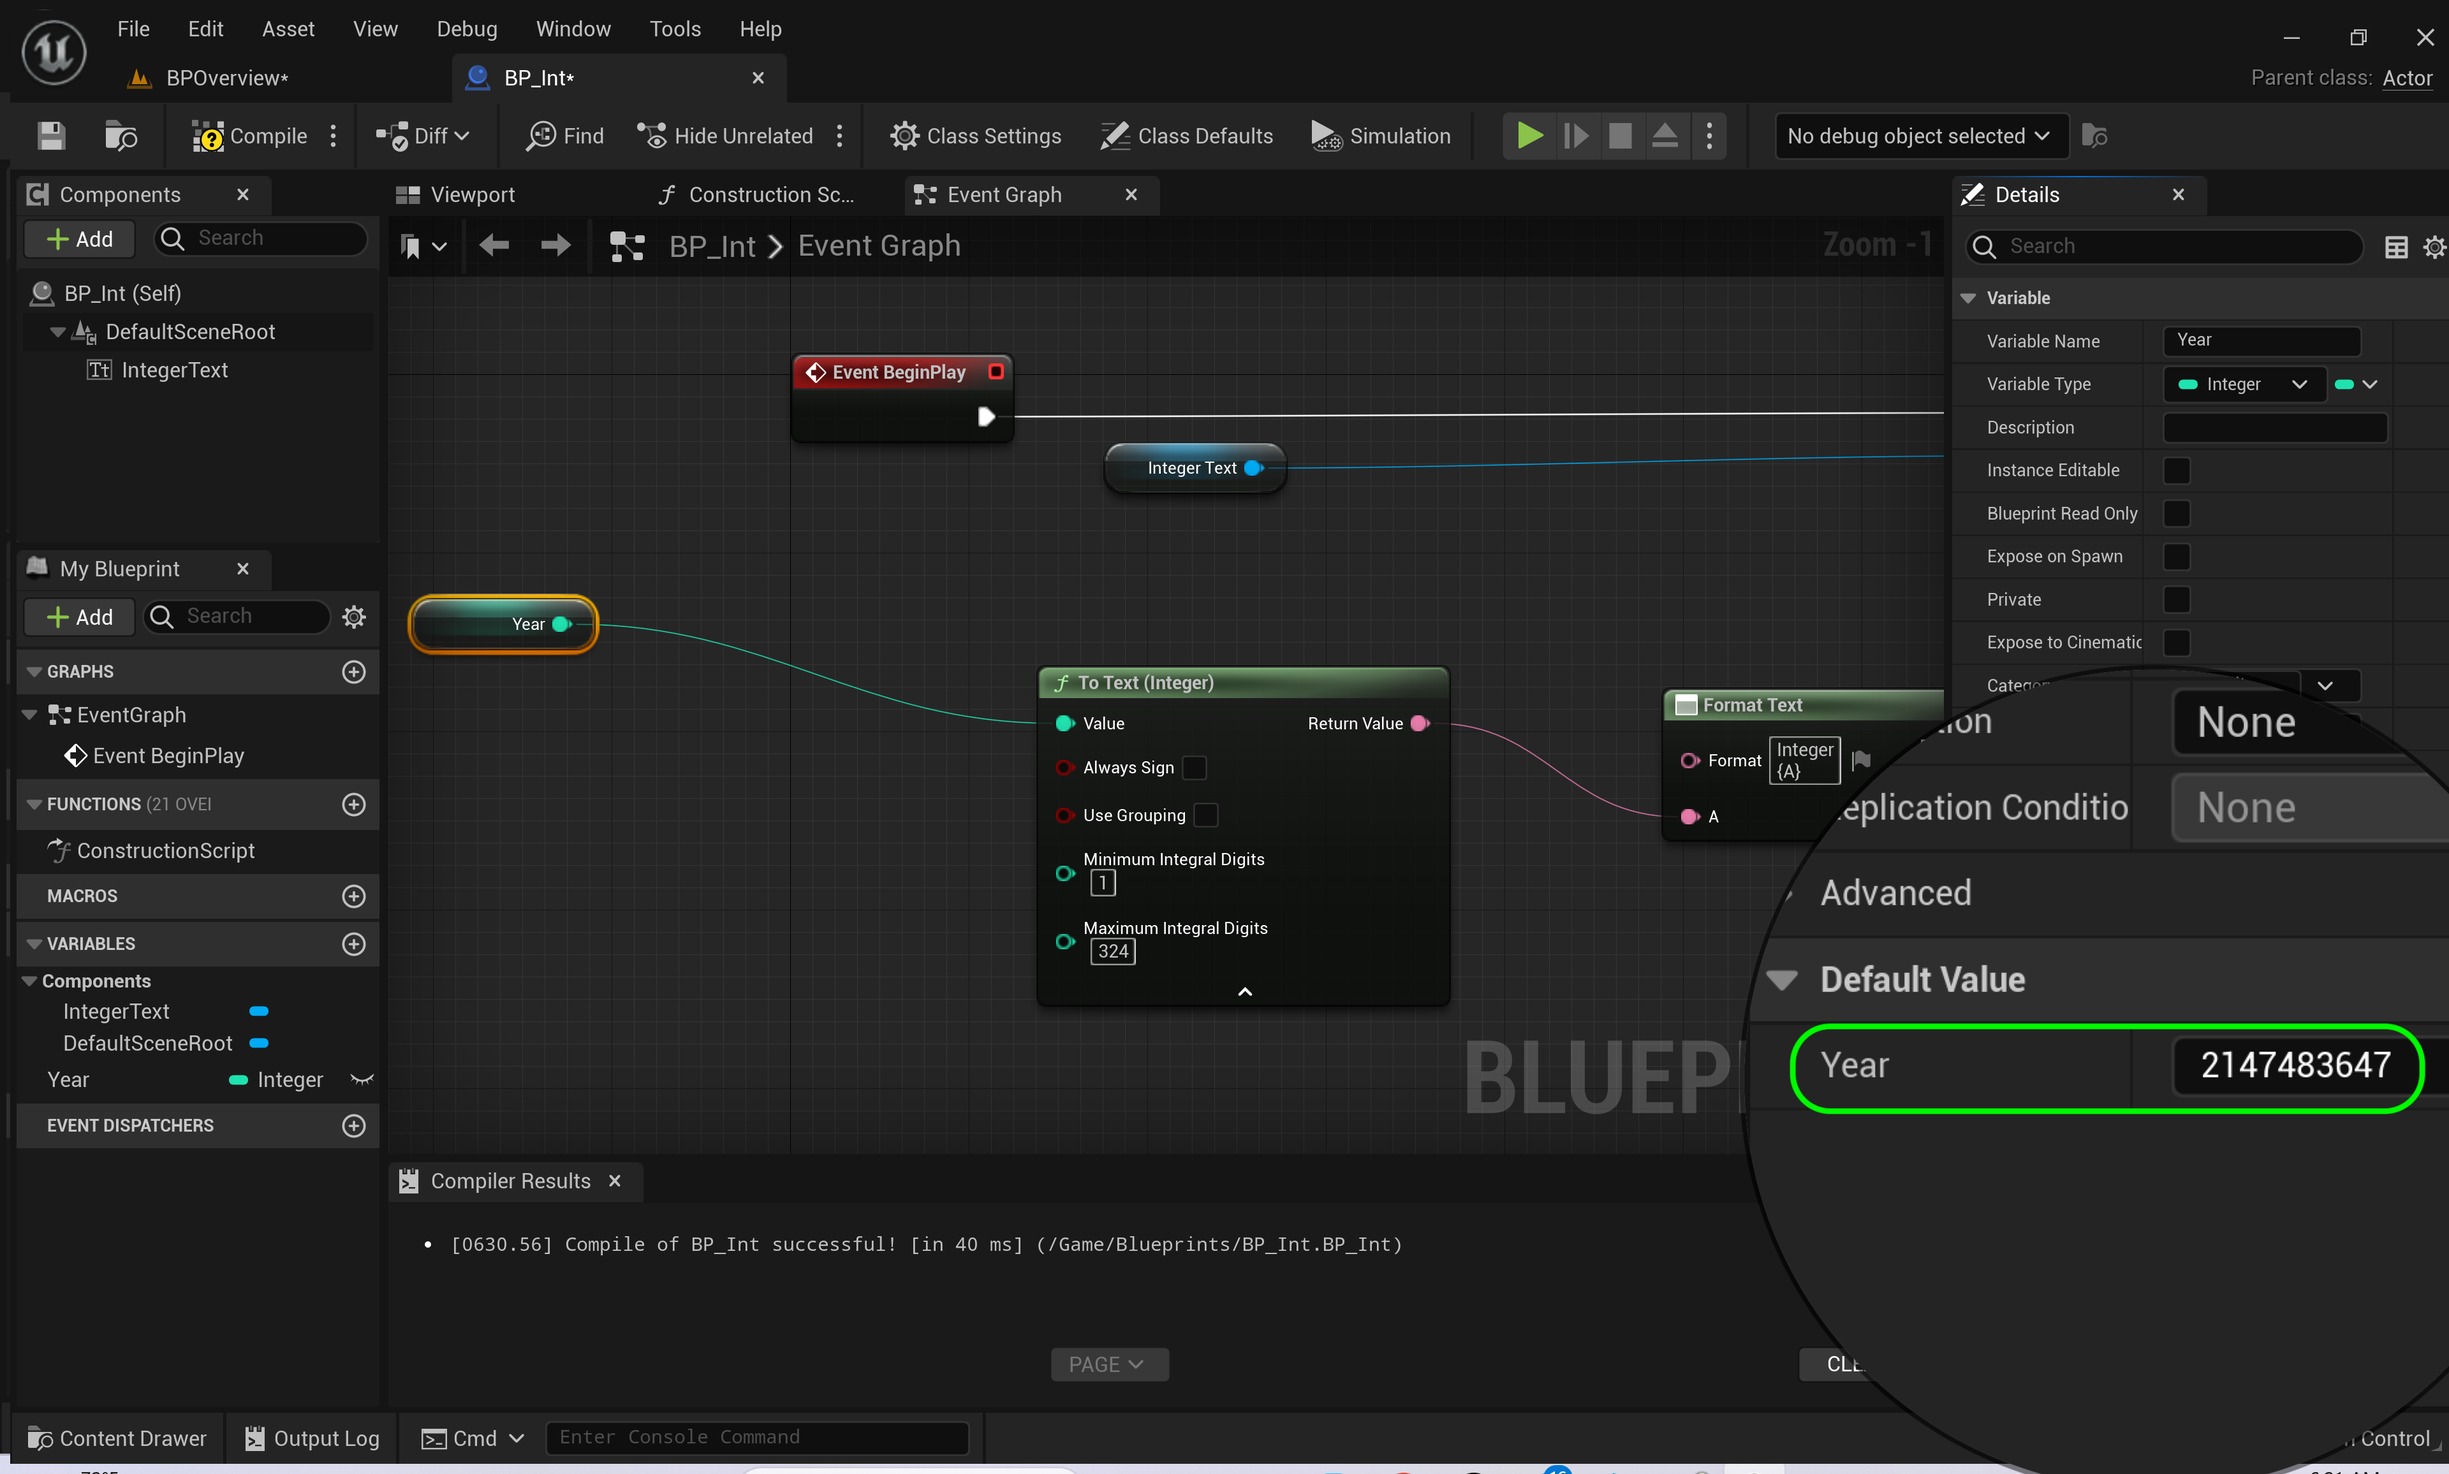
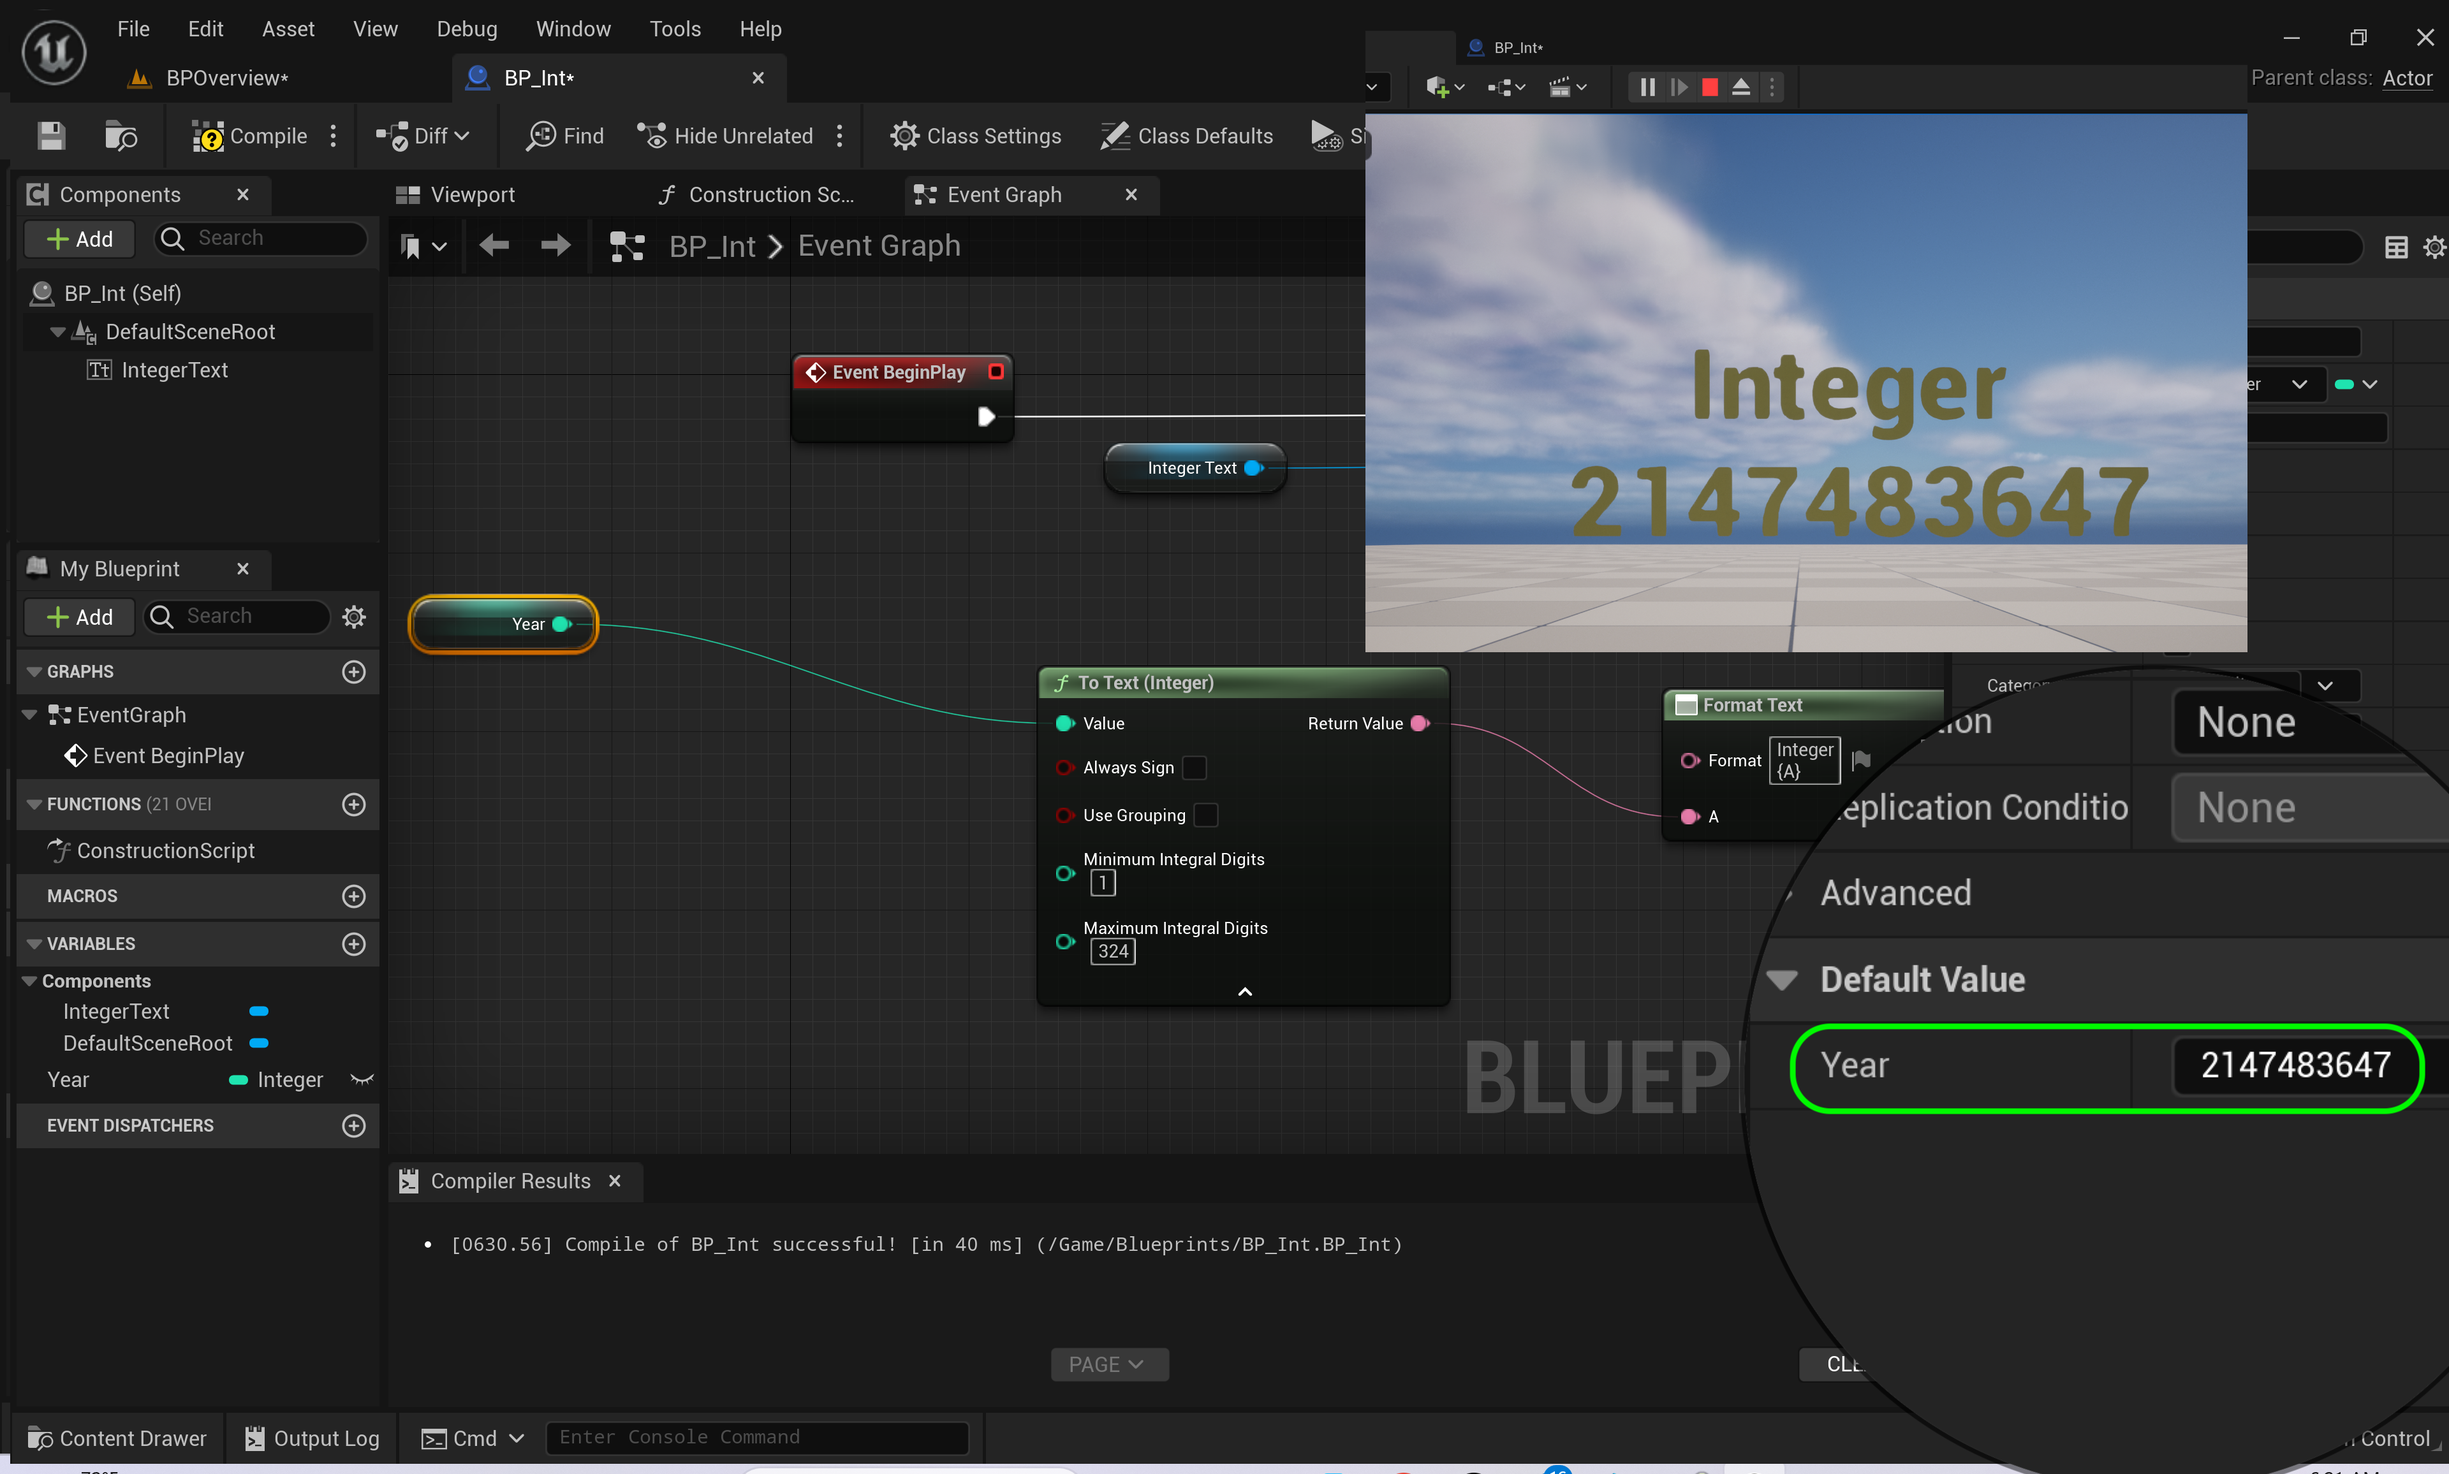
Update to Unreal 5.2

Changed region(s): [[0.5312, 0.0311, 0.9375, 0.4671]]

diff --git a/data-types/README.md b/data-types/README.md
@@ -194,7 +194,9 @@ The other nice thing is that if we try and enter `2,147,483,648` (one over) - it
 
 ##### `Step 20.`\|`BPOVR`| :large_blue_diamond: :large_blue_diamond:
 
-![alt_text](images/.png)
+Now create a new varialbe called 
+
+![alt_text](images/Int64.png)
 
 ![](../images/line2.png)
 
